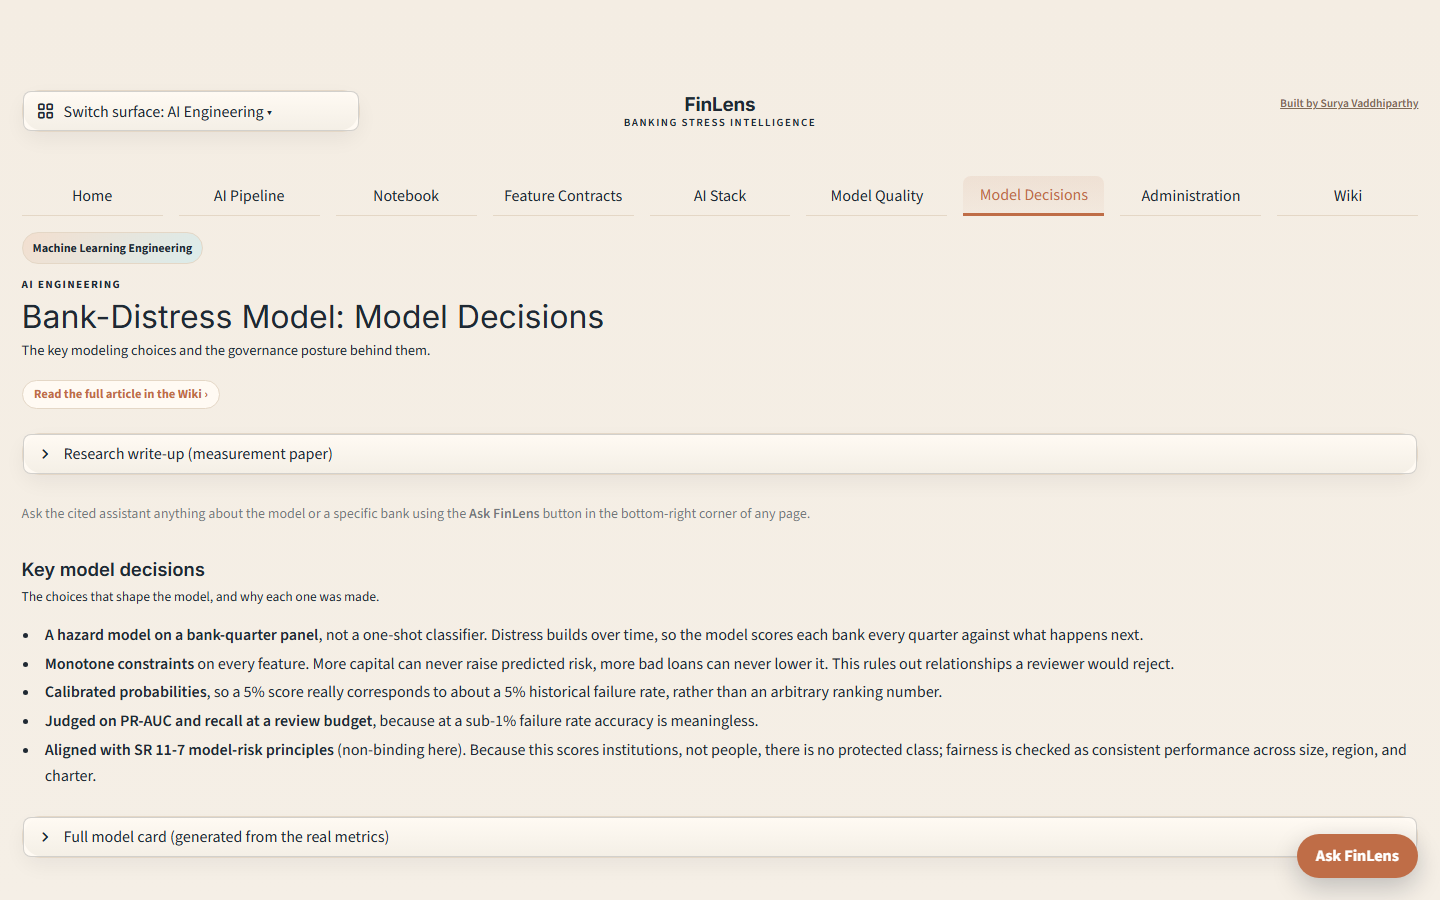
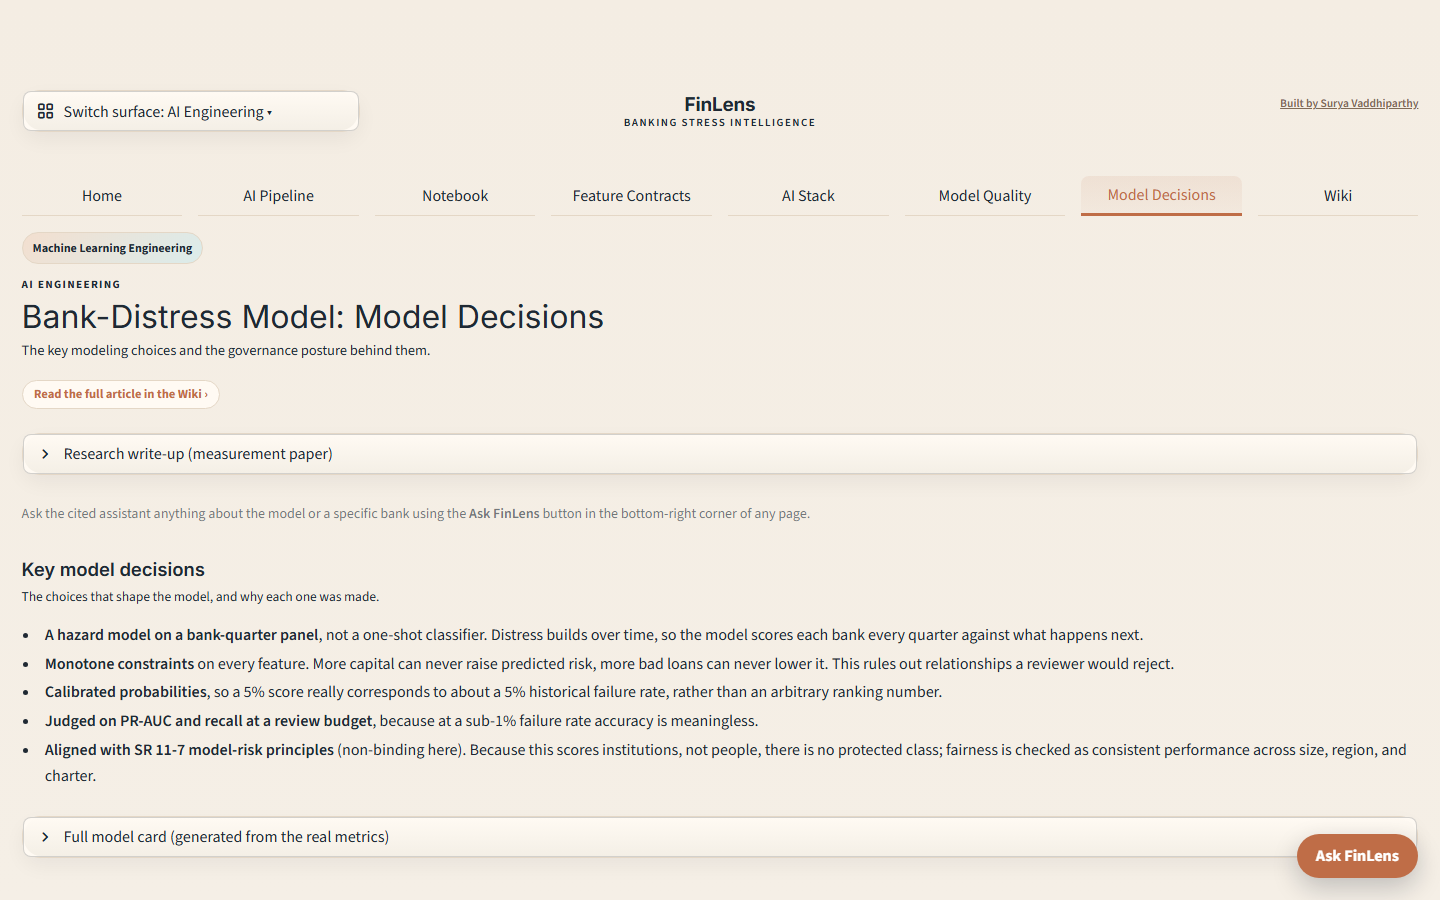
DE status honesty; remove Administration from all surfaces; justify wiki paragraphs
PIPELINE STATUS (it DID run today — data/raw has 2026-06-07 ingestion dirs — but the table was
misleading):
- Ingestion flows now record the REAL completion timestamp (was hardcoded "Completed") and
  FDIC shows "574 records" (was a mojibake byte). Regenerated: all flows 2026-06-07T12:32, real.
- "4 surfaces" -> "3 surfaces" (there are three). Runtime labels no longer claim "Airflow task"
  (the extractors ran via scripts/run_local_pipeline.py; the Airflow DAGs are only defined) —
  now "Python extractor (local run; Airflow DAG defined)".

ADMINISTRATION REMOVED from every surface (per request — not project-relevant): dropped the tab
from _technical_sections + _ai_sections, deleted the section bodies in 4_Data_Engineering.py and
7_AI_Engineering.py, and guarded get_technical_section/get_ai_section so a stale stored section
falls back to a valid one. E2E updated; 25/25 pass.

WIKI: body paragraphs now justified with hyphenation (clean encyclopedia blocks); headings,
list items, and the lead stay left-aligned (short items never force-justified) — restoring the
requested justified look without the rivers.

diff --git a/streamlit_app/pages/4_Data_Engineering.py b/streamlit_app/pages/4_Data_Engineering.py
@@ -134,11 +134,13 @@ def pipeline_status_table(frame: pd.DataFrame) -> pd.DataFrame:
         "Deferred": "⚪ Deferred",
         "Not Activated": "⚪ Not Activated",
     }
+    # Honest runtime: the extractors were run by scripts/run_local_pipeline.py (Python), not a
+    # live Airflow scheduler. The Airflow DAGs are defined (airflow/dags/) for scheduled runs.
     tool_map = {
-        "FDIC -> Bronze": "Airflow task + Python extractor",
-        "QBP -> Bronze": "Airflow task + FDIC summary extractor",
-        "FRED -> Bronze": "Airflow task + FRED extractor",
-        "NIC -> Bronze": "Airflow task + institution metadata extractor",
+        "FDIC -> Bronze": "Python extractor (local run; Airflow DAG defined)",
+        "QBP -> Bronze": "FDIC summary extractor (local run; Airflow DAG defined)",
+        "FRED -> Bronze": "FRED extractor (local run; Airflow DAG defined)",
+        "NIC -> Bronze": "Institution-metadata extractor (local run; Airflow DAG defined)",
         "Bronze -> Silver": "dbt staging / canonical model",
         "Silver -> Gold": "dbt mart build",
         "Gold -> Dashboards": "DuckDB mart read + Streamlit",
@@ -1345,42 +1347,6 @@ elif active_section == "implementation":
     )
     styled_table(activation)
     render_code_excerpts()
-
-elif active_section == "administration":
-    section_heading(
-        "Service Endpoint Catalog",
-        "Administration-facing routes for health checks, telemetry intake, and runtime summaries. "
-        "These are operational controls, not business analytics.",
-    )
-    styled_table(service_endpoints_frame())
-    section_heading(
-        "Control Sync (Postgres)",
-        "Telemetry and pipeline snapshots that can sync to the home control database.",
-    )
-    styled_table(control_sync_frame())
-    section_heading(
-        "Source Freshness",
-        "Current readiness and freshness posture from the connector report.",
-    )
-    styled_table(freshness_table())
-    section_heading(
-        "Source Landing Artifacts",
-        "Raw files and source volumes retained from connector runs.",
-    )
-    styled_table(source_landing_frame())
-    section_heading(
-        "Containerization & Kubernetes Deployment",
-        "The ML serving API is containerized and has a committed local-Kubernetes (kind) "
-        "deployment recipe with readiness/liveness probes. Manifests live under deploy/k8s/; "
-        "the Dockerfiles sit beside each service.",
-    )
-    styled_table(deploy_artifacts_frame())
-    st.caption(
-        "Deploy recipe (committed in deploy/k8s/ml-serve.yaml): `kind create cluster` → "
-        "`docker build -f ml/Dockerfile -t fulllens-ml-serve` → `kind load docker-image` → "
-        "`kubectl apply -f deploy/k8s/ml-serve.yaml` → `kubectl port-forward svc/fulllens-ml-serve "
-        "8077:8077`. NodePort 30077, probes on /ready and /health."
-    )
 
 elif active_section == "decisions":
     render_architecture_decisions()

diff --git a/src/finlens/bootstrap.py b/src/finlens/bootstrap.py
@@ -2,6 +2,7 @@ from __future__ import annotations
 
 from collections.abc import Callable
 from dataclasses import dataclass
+from datetime import UTC, datetime
 from typing import Any
 
 from finlens.config import Settings, get_settings
@@ -172,38 +173,27 @@ def run_active_sources(
 
 
 def _status_fields_for_result(key: str, result: Any) -> dict[str, str]:
+    # Real wall-clock completion time, recorded the moment ingestion returns (never a placeholder).
+    now = datetime.now(UTC).isoformat()
     if key == "fdic":
-        return {
-            "status": "Success",
-            "last_run": "Completed",
-            "rows": str(getattr(result, "record_count", "—")),
-            "note": "Latest ingest complete",
-        }
+        rc = getattr(result, "record_count", None)
+        if rc is None:
+            rc = getattr(result, "size_bytes", None)
+            rows = f"{rc:,} bytes" if rc else "n/a"
+        else:
+            rows = f"{rc:,} records"
+        return {"status": "Success", "last_run": now, "rows": rows,
+                "note": "Latest ingest complete"}
     if key == "fred":
         updated_count = sum(1 for item in result if getattr(item, "updated", False))
-        return {
-            "status": "Success",
-            "last_run": "Completed",
-            "rows": f"{len(result)} series",
-            "note": f"{updated_count} series updated",
-        }
+        return {"status": "Success", "last_run": now, "rows": f"{len(result)} series",
+                "note": f"{updated_count} series updated"}
     if key == "qbp":
-        return {
-            "status": "Success",
-            "last_run": "Completed",
-            "rows": f"{getattr(result, 'size_bytes', 0):,} bytes",
-            "note": "Quarterly workbook landed",
-        }
+        return {"status": "Success", "last_run": now,
+                "rows": f"{getattr(result, 'size_bytes', 0):,} bytes",
+                "note": "Quarterly workbook landed"}
     if key == "nic":
-        return {
-            "status": "Success",
-            "last_run": "Completed",
-            "rows": f"{getattr(result, 'size_bytes', 0):,} bytes",
-            "note": "Current parent metadata landed",
-        }
-    return {
-        "status": "Success",
-        "last_run": "Completed",
-        "rows": "—",
-        "note": "Run complete",
-    }
+        return {"status": "Success", "last_run": now,
+                "rows": f"{getattr(result, 'size_bytes', 0):,} bytes",
+                "note": "Current parent metadata landed"}
+    return {"status": "Success", "last_run": now, "rows": "n/a", "note": "Run complete"}

diff --git a/streamlit_app/lib/page_shell.py b/streamlit_app/lib/page_shell.py
@@ -65,7 +65,6 @@ def _technical_sections() -> list[tuple[str, str]]:
         ("implementation", "Engineering Stack"),
         ("status", "Data Quality"),
         ("decisions", "Architecture Decisions"),
-        ("administration", "Administration"),
         ("wiki", "Wiki"),
     ]
 
@@ -78,19 +77,20 @@ def _ai_sections() -> list[tuple[str, str]]:
         ("stack", "AI Stack"),
         ("quality", "Model Quality"),
         ("decisions", "Model Decisions"),
-        ("administration", "Administration"),
         ("wiki", "Wiki"),
     ]
 
 
 def get_technical_section() -> str:
-    if "technical_section" not in st.session_state:
+    valid = {k for k, _ in _technical_sections()}
+    if st.session_state.get("technical_section") not in valid:
         st.session_state["technical_section"] = "pipeline"
     return st.session_state["technical_section"]
 
 
 def get_ai_section() -> str:
-    if "ai_section" not in st.session_state:
+    valid = {k for k, _ in _ai_sections()}
+    if st.session_state.get("ai_section") not in valid:
         st.session_state["ai_section"] = "pipeline"
     return st.session_state["ai_section"]
 

diff --git a/streamlit_app/lib/theme.py b/streamlit_app/lib/theme.py
@@ -2224,12 +2224,22 @@ def _build_app_css(mode: str, sidebar_open: bool = False) -> str:
     /* ---- Wiki article typography: a readable measure + heading rhythm (no giant blocks) ---- */
     .st-key-wiki_article_body {{ max-width: 760px; }}
     .st-key-wiki_article_body [data-testid="stMarkdownContainer"] p {{
-        text-align: left;
+        text-align: justify;
+        text-justify: inter-word;
+        hyphens: auto;
+        -webkit-hyphens: auto;
         line-height: 1.74;
         font-size: 1.02rem;
         margin: 0 0 1.05rem 0;
         color: {palette["text_main"]};
     }}
+    /* short items (list entries, the lead) keep their natural left edge — never force-justified */
+    .st-key-wiki_article_body li,
+    .st-key-wiki_article_body [data-testid="stMarkdownContainer"] li {{
+        text-align: left;
+        hyphens: none;
+    }}
+    .wiki-art-lead {{ text-align: left; }}
     .st-key-wiki_article_body h2 {{
         font-size: 1.32rem; font-weight: 750; letter-spacing: -.01em;
         color: {palette["text_main"]};

diff --git a/streamlit_app/pages/7_AI_Engineering.py b/streamlit_app/pages/7_AI_Engineering.py
@@ -732,20 +732,6 @@ elif section == "decisions":
             with st.expander(_label):
                 st.markdown(_fp.read_text(encoding="utf-8"))
 
-elif section == "administration":
-    from finlens_ml import registry
-
-    section_heading("Model administration", "Registry, promotion, retraining, rollback.")
-    st.markdown(
-        "- **Registry**: MLflow champion/challenger via aliases (not deprecated stages)\n"
-        "- **Promotion**: manual to champion after shadow + a CI metric gate\n"
-        "- **Retrain**: scheduled quarterly + drift-triggered\n"
-        "- **Rollback**: repoint the champion alias to the prior version (instant, auditable)\n"
-        "- **$0 guard**: CI fails if ML code imports any billable service"
-    )
-    _show_code(registry.set_champion, "Champion promotion via alias (registry.set_champion)")
-    _show_code(registry.promote_latest_to_champion, "Promote latest (registry.promote_latest_to_champion)")
-
 from streamlit_app.lib.page_shell import page_footer  # noqa: E402
 
 page_footer()

diff --git a/src/finlens/warehouse.py b/src/finlens/warehouse.py
@@ -354,7 +354,7 @@ def initialise_local_duckdb() -> Path:
             "gold_to_dashboards",
             status="Success",
             last_run=datetime.now(UTC).isoformat(),
-            rows="4 surfaces",
+            rows="3 surfaces",
             note="Dashboard contracts ready",
         )
 
